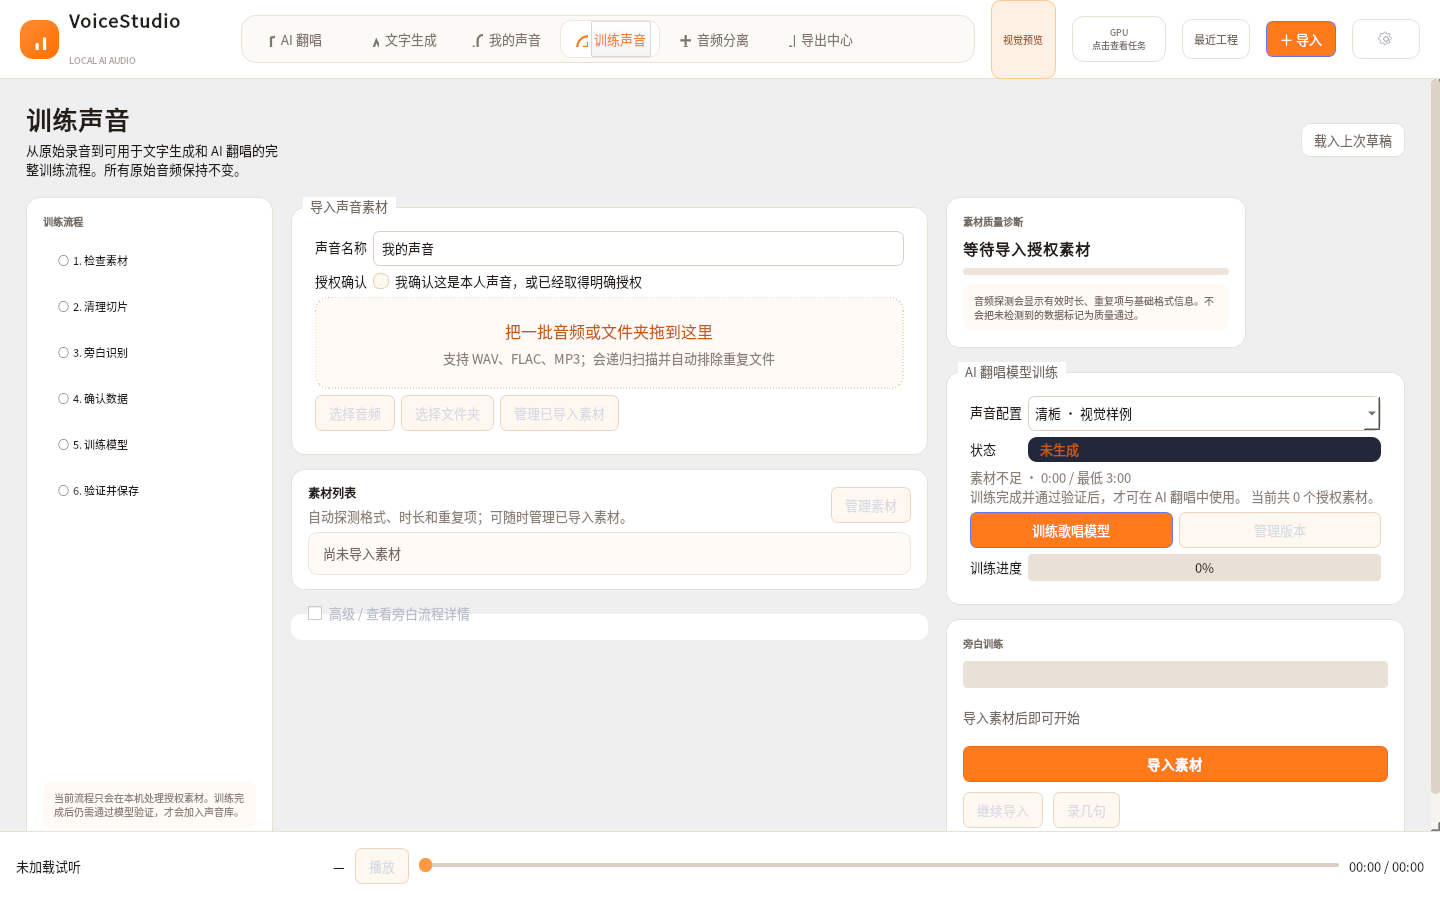
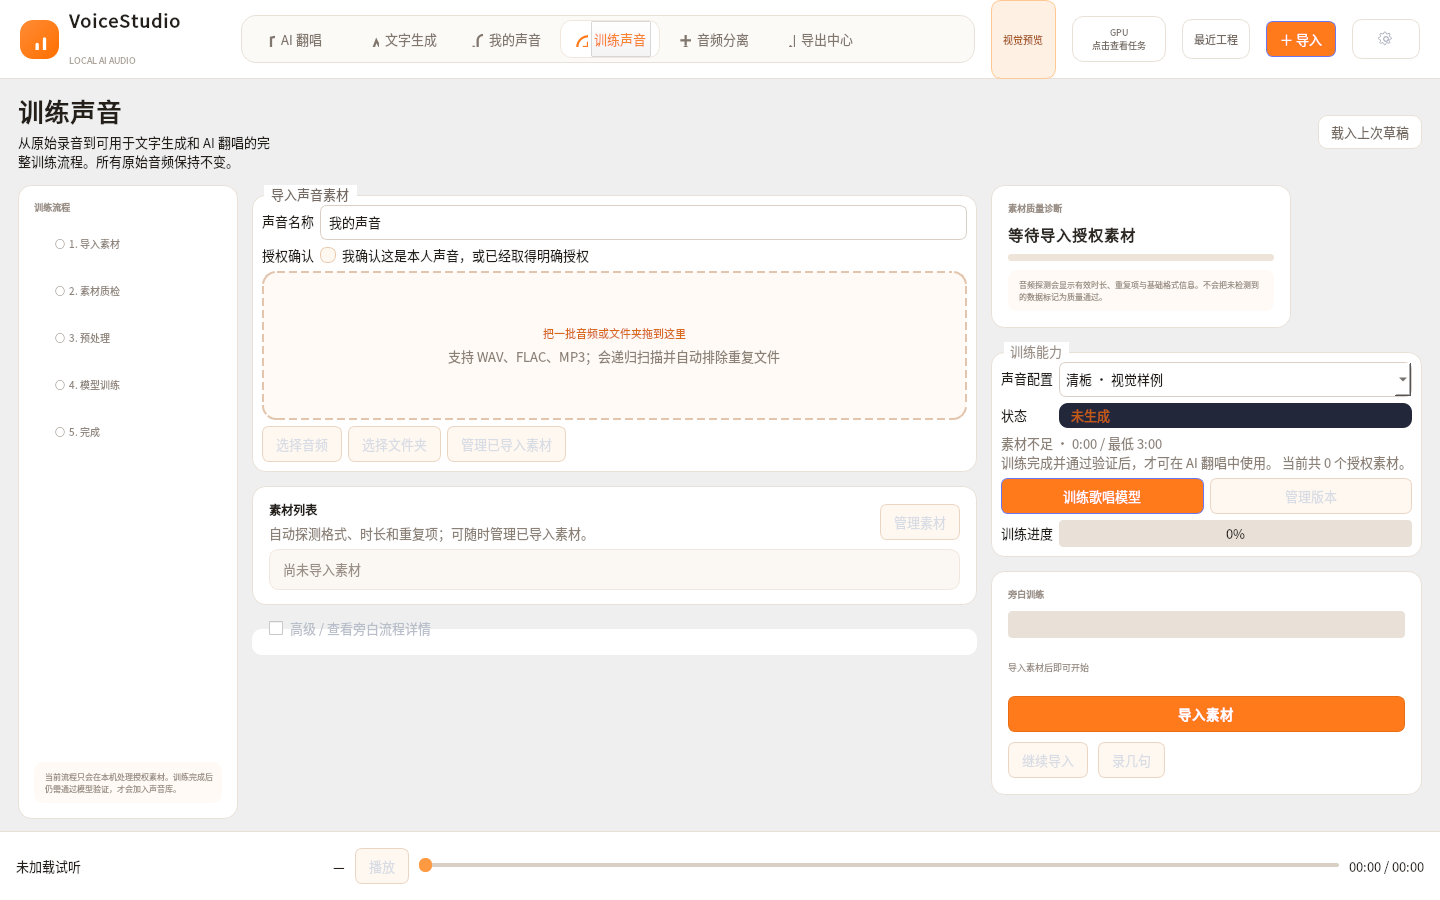
style(ui): match HTML v4 voice and training pages

diff --git a/src/local_voice_studio/ui/simple_pages.py b/src/local_voice_studio/ui/simple_pages.py
@@ -237,7 +237,7 @@ class OneClickTrainingPage(QWidget):
     # These are the legacy narration/voice-data steps.  Singing training is
     # deliberately presented in its own card above and does not pass through
     # the transcription/review flow below.
-    STEPS = ("检查素材", "清理切片", "旁白识别", "确认数据", "训练模型", "验证并保存")
+    STEPS = ("导入素材", "素材质检", "预处理", "模型训练", "完成", "验证保存")
 
     def __init__(self, store: StudioStore, project: Path, client: WorkerClient):
         super().__init__(); self.store, self.project, self.client = store, project, client
@@ -248,14 +248,14 @@ class OneClickTrainingPage(QWidget):
         self._build(); self._restore()
 
     def _build(self) -> None:
-        self.setMinimumHeight(0); outer = QVBoxLayout(self); outer.setContentsMargins(0, 0, 0, 0); scroll = QScrollArea(); scroll.setWidgetResizable(True); scroll.setFrameShape(QFrame.NoFrame); scroll.setMinimumHeight(0); scroll.setSizePolicy(QSizePolicy.Expanding, QSizePolicy.Ignored); content = QWidget(); root = QVBoxLayout(content); root.setContentsMargins(26, 22, 26, 24); root.setSpacing(18); outer.addWidget(scroll); scroll.setWidget(content); self.content_scroll = scroll
+        self.setMinimumHeight(0); outer = QVBoxLayout(self); outer.setContentsMargins(0, 0, 0, 0); scroll = QScrollArea(); scroll.setWidgetResizable(True); scroll.setFrameShape(QFrame.NoFrame); scroll.setMinimumHeight(0); scroll.setSizePolicy(QSizePolicy.Expanding, QSizePolicy.Ignored); content = QWidget(); root = QVBoxLayout(content); root.setContentsMargins(18, 14, 18, 12); root.setSpacing(14); outer.addWidget(scroll); scroll.setWidget(content); self.content_scroll = scroll
         self.setObjectName("trainingPage")
         title_bar = QFrame(); title_bar.setObjectName("trainingTitleBar"); title_layout = QHBoxLayout(title_bar); title_layout.setContentsMargins(0, 0, 0, 0); copy = QVBoxLayout(); copy.setSpacing(4); title = QLabel("训练声音"); title.setObjectName("pageTitle"); subtitle = QLabel("从原始录音到可用于文字生成和 AI 翻唱的完整训练流程。所有原始音频保持不变。"); subtitle.setObjectName("pageSubtitle"); subtitle.setWordWrap(True); copy.addWidget(title); copy.addWidget(subtitle); title_layout.addLayout(copy); title_layout.addStretch(); restore = QPushButton("载入上次草稿"); restore.setObjectName("trainingRestore"); restore.clicked.connect(self._restore); title_layout.addWidget(restore); root.addWidget(title_bar)
-        workspace = QHBoxLayout(); workspace.setSpacing(18); root.addLayout(workspace, 1)
-        steps_panel = QFrame(); steps_panel.setObjectName("trainingStepsPanel"); steps_panel.setMinimumWidth(210); steps_panel.setMaximumWidth(250); steps_layout = QVBoxLayout(steps_panel); steps_layout.setContentsMargins(16, 16, 16, 16); steps_layout.setSpacing(10); steps_label = QLabel("训练流程"); steps_label.setObjectName("trainingSectionLabel"); steps_layout.addWidget(steps_label)
-        self.timeline = StepTimeline(self.STEPS); self.steps = self.timeline.labels; steps_layout.addWidget(self.timeline); steps_layout.addStretch(); steps_note = QLabel("当前流程只会在本机处理授权素材。训练完成后仍需通过模型验证，才会加入声音库。"); steps_note.setObjectName("trainingStepsNote"); steps_note.setWordWrap(True); steps_layout.addWidget(steps_note); workspace.addWidget(steps_panel)
+        workspace = QHBoxLayout(); workspace.setSpacing(14); root.addLayout(workspace, 1)
+        steps_panel = QFrame(); steps_panel.setObjectName("trainingStepsPanel"); steps_panel.setMinimumWidth(220); steps_panel.setMaximumWidth(220); steps_layout = QVBoxLayout(steps_panel); steps_layout.setContentsMargins(15, 15, 15, 15); steps_layout.setSpacing(8); steps_label = QLabel("训练流程"); steps_label.setObjectName("trainingSectionLabel"); steps_layout.addWidget(steps_label)
+        self.timeline = StepTimeline(self.STEPS); self.steps = self.timeline.labels; self.timeline.rows[-1].hide(); steps_layout.addWidget(self.timeline); steps_layout.addStretch(); steps_note = QLabel("当前流程只会在本机处理授权素材。训练完成后仍需通过模型验证，才会加入声音库。"); steps_note.setObjectName("trainingStepsNote"); steps_note.setWordWrap(True); steps_layout.addWidget(steps_note); workspace.addWidget(steps_panel)
         center = QVBoxLayout(); center.setSpacing(14); workspace.addLayout(center, 1)
-        self.singing_card = QGroupBox("AI 翻唱模型训练"); self.singing_card.setObjectName("trainingSingingCard"); singing_form = QFormLayout(self.singing_card)
+        self.singing_card = QGroupBox("训练能力"); self.singing_card.setObjectName("trainingSingingCard"); singing_form = QFormLayout(self.singing_card)
         self.singing_profile = QComboBox(); self.singing_profile.currentIndexChanged.connect(self._refresh_singing_card)
         self.singing_status = QLabel("未选择声音"); self.singing_status.setObjectName("statusChip")
         self.singing_detail = QLabel("训练完成并通过验证后，才可在 AI 翻唱中使用。现在的训练流程会自动保存歌唱模型状态。"); self.singing_detail.setWordWrap(True); self.singing_detail.setObjectName("hint")
@@ -561,11 +561,12 @@ class VoiceCard(QFrame):
     generate_requested = Signal(str); retrain_requested = Signal(str); selected = Signal(str); changed = Signal()
     def __init__(self, store: StudioStore, project: Path, profile: VoiceProfile, parent=None):
         super().__init__(parent); self.setObjectName("voiceCard"); self.store, self.project, self.profile = store, project, profile; assets = store.list_source_assets(project, profile.id); total = sum(item.duration_seconds for item in assets if not item.duplicate_of); current = next((item for item in profile.model_versions if item.id == profile.active_model_version_id), None)
-        layout = QVBoxLayout(self); top = QHBoxLayout(); name = QLabel(profile.name); name.setObjectName("cardTitle"); badge = QLabel("已训练模型" if current else "快速克隆"); badge.setObjectName("statusChip"); state = QLabel(profile.status(assets)); state.setObjectName("hint"); top.addWidget(name); top.addWidget(badge); top.addWidget(state); top.addStretch(); layout.addLayout(top)
-        created = format_timestamp(current.created_at if current else profile.updated_at); layout.addWidget(QLabel(f"{total:.1f} 秒素材 · {len(assets)} 个文件 · 当前：{current.name if current else '原始参考声音'} · {created}"))
-        target = self._preview_path(); self.player = InlineAudioPlayer(); self.player.set_source(target); layout.addWidget(self.player)
-        row = QHBoxLayout(); preview = QPushButton("▶ 试听"); preview.clicked.connect(self._preview); generate = QPushButton("用这个声音生成"); generate.setObjectName("primaryButton"); generate.clicked.connect(lambda: self.generate_requested.emit(profile.id)); rename = QPushButton("改名"); rename.clicked.connect(self._rename); retrain = QPushButton("追加训练"); retrain.clicked.connect(lambda: self.retrain_requested.emit(profile.id)); versions = QPushButton("版本历史 / A/B"); versions.clicked.connect(self._versions); row.addWidget(preview); row.addWidget(generate); row.addWidget(retrain); row.addWidget(versions); row.addWidget(rename); row.addStretch(); layout.addLayout(row)
-        advanced = QGroupBox("更多操作"); advanced.setCheckable(True); advanced.setChecked(False); form = QFormLayout(advanced); open_folder = QPushButton("打开文件位置"); open_folder.clicked.connect(lambda: QDesktopServices.openUrl(QUrl.fromLocalFile(str(project / "checkpoints" / profile.id)))); remove = QPushButton("删除声音配置"); remove.clicked.connect(self._remove); form.addRow(open_folder, remove); fold_group(advanced); layout.addWidget(advanced)
+        self.setMinimumWidth(0); self.setSizePolicy(QSizePolicy.Ignored, QSizePolicy.Preferred)
+        layout = QVBoxLayout(self); layout.setContentsMargins(13, 13, 13, 12); layout.setSpacing(8); top = QHBoxLayout(); avatar = QLabel("◉"); avatar.setObjectName("voiceCardAvatar"); avatar.setAlignment(Qt.AlignCenter); avatar.setFixedSize(34, 34); top.addWidget(avatar); name = QLabel(profile.name); name.setObjectName("cardTitle"); name.setFixedWidth(104); badge = QLabel("已训练模型" if current else "快速克隆"); badge.setObjectName("statusChip"); state = QLabel(profile.status(assets)); state.setObjectName("hint"); state.setMinimumWidth(0); state.setSizePolicy(QSizePolicy.Ignored, QSizePolicy.Preferred); state.hide(); top.addWidget(name); top.addWidget(badge); top.addWidget(state); top.addStretch(); layout.addLayout(top)
+        created = format_timestamp(current.created_at if current else profile.updated_at); metadata = QLabel(f"{total:.1f} 秒素材 · {len(assets)} 个文件 · 当前：{current.name if current else '原始参考声音'} · {created}"); metadata.setWordWrap(False); metadata.setMinimumWidth(0); metadata.setSizePolicy(QSizePolicy.Ignored, QSizePolicy.Preferred); metadata.setToolTip(metadata.text()); layout.addWidget(metadata)
+        target = self._preview_path(); self.player = InlineAudioPlayer(); self.player.setObjectName("voiceCardPlayer"); self.player.set_source(target); layout.addWidget(self.player); self.player.hide()
+        row = QHBoxLayout(); preview = QPushButton("▶ 试听"); preview.clicked.connect(self._preview); generate = QPushButton("用这个声音生成"); generate.setObjectName("primaryButton"); generate.clicked.connect(lambda: self.generate_requested.emit(profile.id)); rename = QPushButton("改名"); rename.clicked.connect(self._rename); retrain = QPushButton("追加训练"); retrain.clicked.connect(lambda: self.retrain_requested.emit(profile.id)); versions = QPushButton("版本历史 / A/B"); versions.clicked.connect(self._versions); row.addWidget(preview); row.addWidget(generate); row.addWidget(retrain); row.addWidget(versions); row.addWidget(rename); row.addStretch(); action_box = QWidget(); action_box.setObjectName("voiceCardActions"); action_box.setLayout(row); layout.addWidget(action_box); action_box.hide()
+        advanced = QGroupBox("更多操作"); advanced.setCheckable(True); advanced.setChecked(False); form = QFormLayout(advanced); open_folder = QPushButton("打开文件位置"); open_folder.clicked.connect(lambda: QDesktopServices.openUrl(QUrl.fromLocalFile(str(project / "checkpoints" / profile.id)))); remove = QPushButton("删除声音配置"); remove.clicked.connect(self._remove); form.addRow(open_folder, remove); fold_group(advanced); layout.addWidget(advanced); advanced.hide()
     def _preview_path(self) -> str:
         version = next((item for item in self.profile.model_versions if item.id == self.profile.active_model_version_id), None)
         if version:
@@ -606,7 +607,7 @@ class MyVoicesPage(QWidget):
     profiles_changed = Signal(); generate_requested = Signal(str); retrain_requested = Signal(str)
     def __init__(self, store: StudioStore, project: Path):
         super().__init__(); self.store, self.project, self._filter, self._selected_profile_id = store, project, "all", ""; self.setObjectName("voicesPage"); self.setMinimumHeight(0)
-        outer = QVBoxLayout(self); outer.setContentsMargins(0, 0, 0, 0); page_scroll = QScrollArea(); page_scroll.setWidgetResizable(True); page_scroll.setFrameShape(QFrame.NoFrame); page_scroll.setMinimumHeight(0); page_scroll.setSizePolicy(QSizePolicy.Expanding, QSizePolicy.Ignored); content = QWidget(); root = QVBoxLayout(content); root.setContentsMargins(24, 20, 24, 18); root.setSpacing(14); outer.addWidget(page_scroll); page_scroll.setWidget(content); self.content_scroll = page_scroll
+        outer = QVBoxLayout(self); outer.setContentsMargins(0, 0, 0, 0); page_scroll = QScrollArea(); page_scroll.setWidgetResizable(True); page_scroll.setFrameShape(QFrame.NoFrame); page_scroll.setMinimumHeight(0); page_scroll.setSizePolicy(QSizePolicy.Expanding, QSizePolicy.Ignored); content = QWidget(); root = QVBoxLayout(content); root.setContentsMargins(18, 14, 18, 12); root.setSpacing(14); outer.addWidget(page_scroll); page_scroll.setWidget(content); self.content_scroll = page_scroll
         titlebar = QHBoxLayout(); copy = QVBoxLayout(); copy.setSpacing(3); title = QLabel("我的声音"); title.setObjectName("pageTitle"); copy.addWidget(title); subtitle = QLabel("统一管理文字生成与 AI 翻唱音色能力。"); subtitle.setObjectName("pageSubtitle"); copy.addWidget(subtitle); titlebar.addLayout(copy, 1)
         self.new_voice = QPushButton("＋ 训练新声音"); self.new_voice.setObjectName("primaryButton"); self.new_voice.clicked.connect(lambda: self.retrain_requested.emit("")); titlebar.addWidget(self.new_voice)
         self.import_models = QPushButton("导入模型…"); self.import_models.setObjectName("secondaryButton"); self.import_models.clicked.connect(self._choose_model_files); titlebar.addWidget(self.import_models); root.addLayout(titlebar)
@@ -615,7 +616,7 @@ class MyVoicesPage(QWidget):
         for key, label in (("all", "全部"), ("tts", "文字生成"), ("cover", "AI 翻唱")):
             button = QPushButton(label); button.setObjectName("voiceFilter"); button.setCheckable(True); button.clicked.connect(lambda _checked=False, value=key: self._set_filter(value)); self.filter_buttons[key] = button; toolbar.addWidget(button)
         library_layout.addLayout(toolbar); self.scroll = QScrollArea(); self.scroll.setObjectName("voicesScroll"); self.scroll.setWidgetResizable(True); library_layout.addWidget(self.scroll, 1); workspace.addWidget(library, 1)
-        self.detail = QFrame(); self.detail.setObjectName("voiceDetail"); self.detail.setFixedWidth(320); detail_layout = QVBoxLayout(self.detail); detail_layout.setContentsMargins(18, 18, 18, 18); detail_layout.setSpacing(11)
+        self.detail = QFrame(); self.detail.setObjectName("voiceDetail"); self.detail.setFixedWidth(340); detail_layout = QVBoxLayout(self.detail); detail_layout.setContentsMargins(18, 18, 18, 18); detail_layout.setSpacing(11)
         detail_hero = QFrame(); detail_hero.setObjectName("voiceDetailHero"); hero_layout = QVBoxLayout(detail_hero); hero_layout.setContentsMargins(0, 0, 0, 12); hero_layout.setSpacing(5)
         self.detail_avatar = QLabel("◉"); self.detail_avatar.setObjectName("voiceDetailAvatar"); self.detail_avatar.setAlignment(Qt.AlignCenter); hero_layout.addWidget(self.detail_avatar, alignment=Qt.AlignCenter)
         self.detail_name = QLabel("选择一个声音"); self.detail_name.setObjectName("voiceDetailName"); self.detail_name.setAlignment(Qt.AlignCenter); hero_layout.addWidget(self.detail_name)
@@ -624,7 +625,11 @@ class MyVoicesPage(QWidget):
         for index, caption in enumerate(("授权素材", "可用时长", "文字生成", "AI 翻唱")):
             card = QFrame(); card.setObjectName("voiceStat"); card_layout = QVBoxLayout(card); card_layout.setContentsMargins(9, 8, 9, 8); card_layout.setSpacing(2); value = QLabel("—"); value.setObjectName("voiceStatValue"); caption_label = QLabel(caption); caption_label.setObjectName("voiceStatCaption"); card_layout.addWidget(value); card_layout.addWidget(caption_label); stats_layout.addWidget(card, index // 2, index % 2); self.detail_stats.append(value)
         detail_layout.addWidget(stats)
-        capability_label = QLabel("能力状态"); capability_label.setObjectName("sectionLabel"); detail_layout.addWidget(capability_label); self.detail_capabilities = QLabel("尚未选择声音"); self.detail_capabilities.setObjectName("voiceCapabilities"); self.detail_capabilities.setWordWrap(True); detail_layout.addWidget(self.detail_capabilities); version_label = QLabel("模型版本"); version_label.setObjectName("sectionLabel"); detail_layout.addWidget(version_label); self.detail_versions = QLabel("没有可显示的版本记录"); self.detail_versions.setObjectName("voiceVersions"); self.detail_versions.setWordWrap(True); detail_layout.addWidget(self.detail_versions); detail_layout.addStretch(); self.detail_note = QLabel("所有操作均使用本地项目中的授权、素材和模型记录。"); self.detail_note.setObjectName("hint"); self.detail_note.setWordWrap(True); detail_layout.addWidget(self.detail_note); workspace.addWidget(self.detail); root.addLayout(workspace, 1); self.refresh()
+        capability_label = QLabel("能力状态"); capability_label.setObjectName("sectionLabel"); detail_layout.addWidget(capability_label); self.detail_capabilities = QLabel("尚未选择声音"); self.detail_capabilities.setObjectName("voiceCapabilities"); self.detail_capabilities.setWordWrap(True); detail_layout.addWidget(self.detail_capabilities); version_label = QLabel("模型版本"); version_label.setObjectName("sectionLabel"); detail_layout.addWidget(version_label); self.detail_versions = QLabel("没有可显示的版本记录"); self.detail_versions.setObjectName("voiceVersions"); self.detail_versions.setWordWrap(True); detail_layout.addWidget(self.detail_versions); detail_layout.addStretch(); self.detail_note = QLabel("所有操作均使用本地项目中的授权、素材和模型记录。"); self.detail_note.setObjectName("hint"); self.detail_note.setWordWrap(True); detail_layout.addWidget(self.detail_note)
+        detail_actions = QWidget(); detail_actions.setObjectName("voiceDetailActions"); detail_grid = QGridLayout(detail_actions); detail_grid.setContentsMargins(0, 0, 0, 0); detail_grid.setSpacing(8)
+        preview_button = QPushButton("▶ 试听"); preview_button.clicked.connect(self._preview_selected); generate_button = QPushButton("用于生成"); generate_button.setObjectName("primaryButton"); generate_button.clicked.connect(self._generate_selected); retrain_button = QPushButton("追加训练"); retrain_button.clicked.connect(self._retrain_selected); versions_button = QPushButton("版本历史 / A/B"); versions_button.clicked.connect(self._versions_selected)
+        for index, button in enumerate((preview_button, generate_button, retrain_button, versions_button)): detail_grid.addWidget(button, index // 2, index % 2)
+        detail_layout.addWidget(detail_actions); workspace.addWidget(self.detail); root.addLayout(workspace, 1); self.refresh()
     def _set_filter(self, value: str) -> None:
         self._filter = value; self.refresh()
     def refresh(self) -> None:
@@ -638,7 +643,7 @@ class MyVoicesPage(QWidget):
         if not profiles:
             empty = QLabel("没有符合条件的声音。训练完成并确认授权后会显示在这里。"); empty.setObjectName("emptyState"); empty.setAlignment(Qt.AlignCenter); layout.addWidget(empty, 0, 0, 1, 2)
         for index, profile in enumerate(profiles):
-            card = VoiceCard(self.store, self.project, profile); card.generate_requested.connect(self.generate_requested); card.retrain_requested.connect(self.retrain_requested); card.selected.connect(self._select_profile); card.changed.connect(self._changed); layout.addWidget(card, index // 2, index % 2)
+            card = VoiceCard(self.store, self.project, profile); card.generate_requested.connect(self.generate_requested); card.retrain_requested.connect(self.retrain_requested); card.selected.connect(self._select_profile); card.changed.connect(self._changed); layout.addWidget(card, index // 3, index % 3)
         if profiles:
             if not any(item.id == self._selected_profile_id for item in profiles): self._selected_profile_id = profiles[0].id
             self._select_profile(self._selected_profile_id)
@@ -667,6 +672,35 @@ class MyVoicesPage(QWidget):
             active = next((item for item in profile.singing_models if item.id == profile.active_singing_model_id), profile.singing_models[-1])
             versions.append(f"AI 翻唱 · {active.engine} · {active.trust_status}")
         self.detail_versions.setText("\n".join(versions) if versions else "尚无已保存的模型版本")
+
+    def _selected_profile(self):
+        return next((item for item in self.store.list_profiles(self.project) if item.id == self._selected_profile_id and not item.archived), None)
+
+    def _preview_selected(self) -> None:
+        profile = self._selected_profile()
+        if not profile:
+            return
+        path = next((item.path for item in profile.reference_assets if item.approved and Path(item.path).is_file()), "")
+        if not path:
+            show_error(self, "这个声音还没有可试听文件")
+            return
+        player = InlineAudioPlayer(self); player.set_source(path); player.toggle(); self._detail_player = player
+
+    def _generate_selected(self) -> None:
+        if self._selected_profile_id:
+            self.generate_requested.emit(self._selected_profile_id)
+
+    def _retrain_selected(self) -> None:
+        if self._selected_profile_id:
+            self.retrain_requested.emit(self._selected_profile_id)
+
+    def _versions_selected(self) -> None:
+        profile = self._selected_profile()
+        if profile:
+            dialog = VersionHistoryDialog(self.store, self.project, profile, self)
+            dialog.changed.connect(self._changed)
+            dialog.exec()
+
     def _changed(self) -> None: self.refresh(); self.profiles_changed.emit()
 
     def _choose_model_files(self) -> None:

diff --git a/src/local_voice_studio/ui/widgets.py b/src/local_voice_studio/ui/widgets.py
@@ -158,13 +158,14 @@ class StepTimeline(QFrame):
         self.names = names
         self.labels: list[QLabel] = []
         self.results: list[QLabel] = []
+        self.rows: list[QFrame] = []
         layout = QVBoxLayout(self); layout.setContentsMargins(0, 0, 0, 0); layout.setSpacing(4)
         for number, name in enumerate(names, 1):
             row = QFrame(); row_layout = QHBoxLayout(row); row_layout.setContentsMargins(10, 5, 10, 5)
             label = QLabel(f"○  {number}. {name}"); label.setObjectName("stepPending")
             result = QLabel(""); result.setObjectName("hint"); result.setAlignment(Qt.AlignRight | Qt.AlignVCenter)
             row_layout.addWidget(label); row_layout.addWidget(result, 1)
-            layout.addWidget(row); self.labels.append(label); self.results.append(result)
+            layout.addWidget(row); self.rows.append(row); self.labels.append(label); self.results.append(result)
 
     def update_state(self, current: int, results: dict[int, str] | None = None, failed: bool = False) -> None:
         results = results or {}
